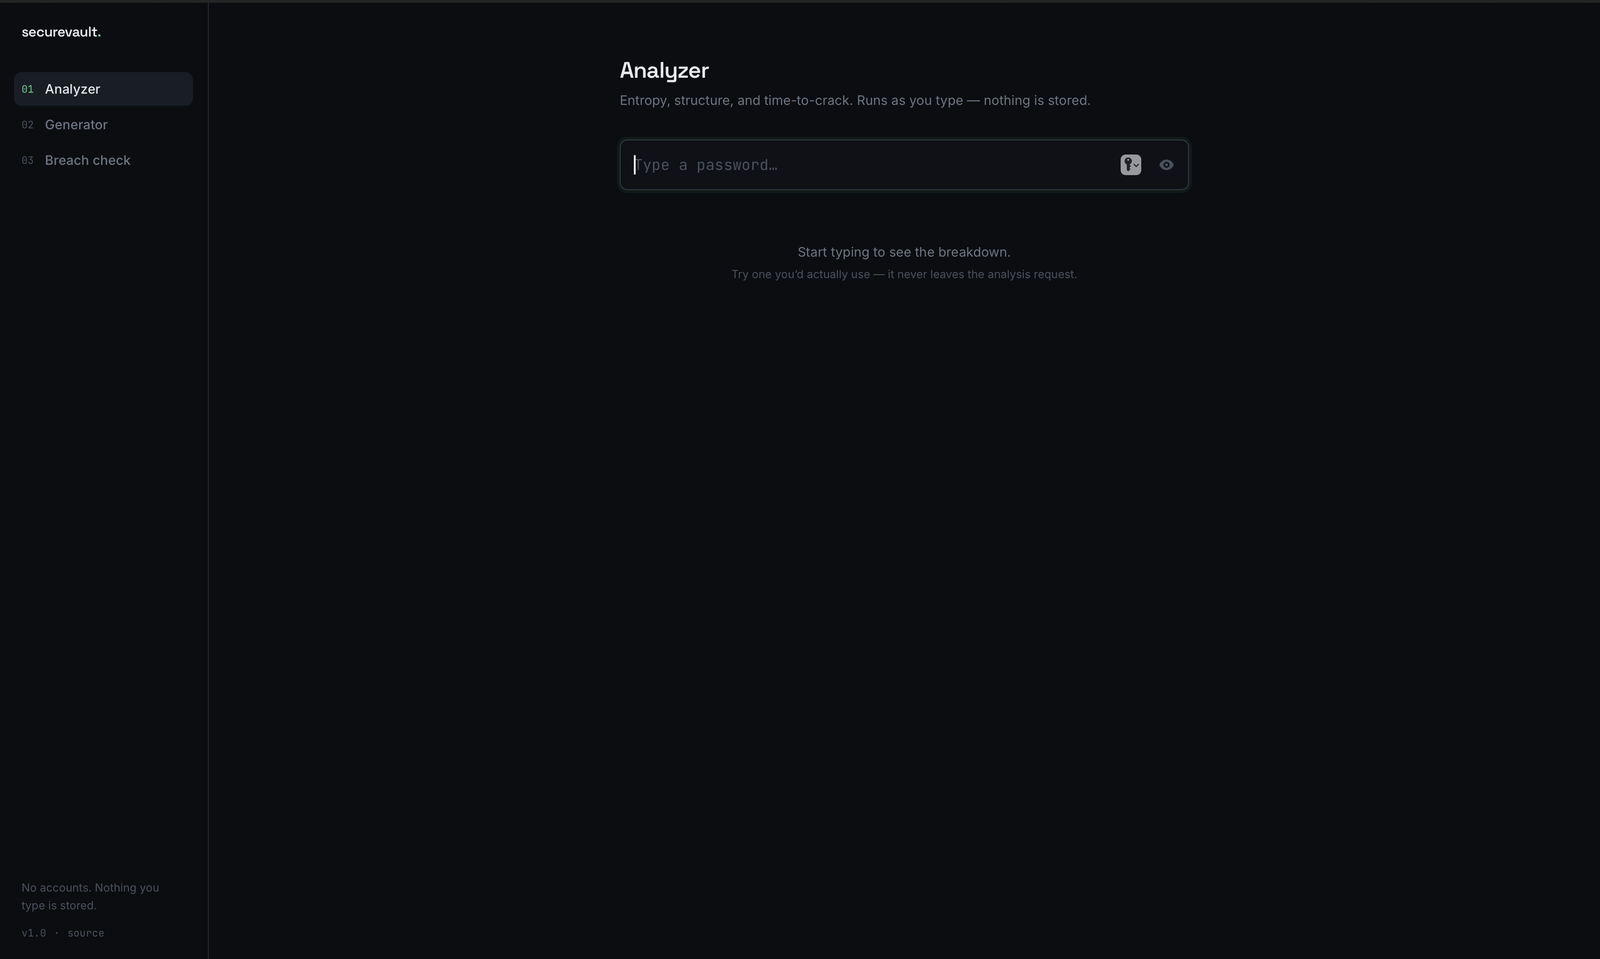
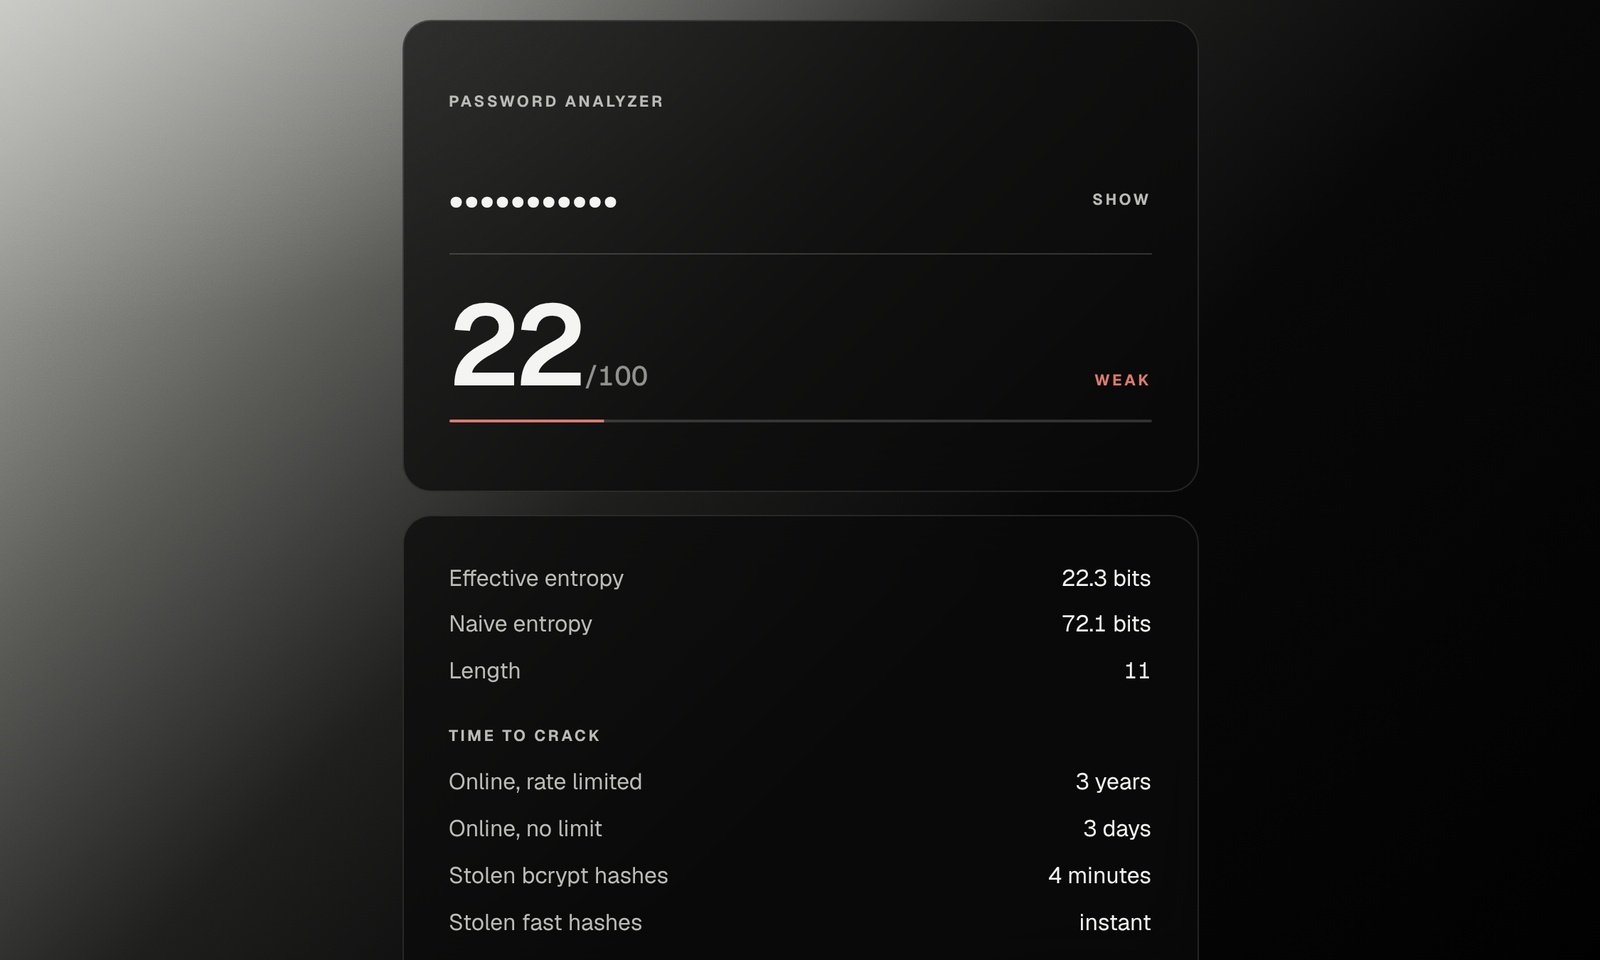
Update the SecureVault card for the current version
SecureVault is now a static React page: a pattern-aware strength
analyzer, a k-anonymity breach check against Have I Been Pwned, and a
CSPRNG generator. Rewrite the card's description, body and tags to
match, and drop the old Flask/vault/2FA claims.

Replace the screenshot with a capture of the current analyzer scoring
Summer2024! (22/100), taken from a local production build with HIBP
mocked. Update the img dimensions and alt text.

Claude-Session: https://claude.ai/code/session_01GDyqRnzZxBMkVcqApWLJuY

diff --git a/index.html b/index.html
@@ -172,17 +172,18 @@
             <span class="index">02</span>
           </div>
           <h3><a href="https://securevault.dhruvdave.ca" rel="noopener">SecureVault</a></h3>
-          <p class="desc">Password analyzer and encrypted vault.</p>
+          <p class="desc">Password strength analyzer, breach check, and generator.</p>
           <p>
-            Built to understand how a password manager such as 1Password works internally.
-            The analyzer computes entropy, detects keyboard walks and date patterns, and
-            scores passwords from 0 to 100. Each vault entry has its own AES-256-GCM key
-            (PBKDF2, 600,000 iterations), breach checks use HaveIBeenPwned's k-anonymity
-            model so no password leaves the machine, and authentication is bcrypt with
-            rotating JWTs and TOTP 2FA, all covered by a pytest suite.
+            The analyzer charges each guessable part of a password what it costs to
+            guess: dictionary words (leet swaps included), keyboard walks, sequences,
+            and dates. Summer2024! has 72 naive bits but scores 22. The breach check
+            hashes with SHA-1 in the browser and sends Have I Been Pwned only a
+            5-character prefix; the CSP blocks every other host. A CSPRNG generator
+            reports exact entropy, and Playwright tests fail if any request carries the
+            password or its full hash.
           </p>
           <ul class="tags">
-            <li>Flask</li><li>React</li><li>SQLite</li><li>Docker</li>
+            <li>React</li><li>Vite</li><li>Web Crypto</li><li>Playwright</li><li>Docker</li>
           </ul>
           <p class="card-links">
             <a href="https://securevault.dhruvdave.ca" rel="noopener">Live demo</a><span aria-hidden="true">/</span>
@@ -190,7 +191,7 @@
           </p>
         </div>
         <figure class="card-visual">
-          <img src="images/securevault.webp" alt="SecureVault's analyzer: a password field that scores entropy and structure as you type, with a numbered sidebar for analyzer, generator, and breach check" width="1440" height="863" loading="lazy" decoding="async">
+          <img src="images/securevault.webp" alt="SecureVault's analyzer scoring Summer2024! at 22 out of 100, with effective vs naive entropy and time-to-crack estimates" width="1440" height="864" loading="lazy" decoding="async">
         </figure>
       </article>
 
